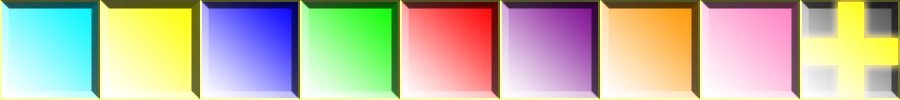
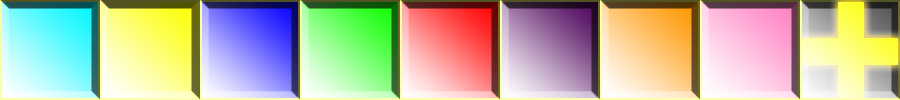
Sort and Darker Purple
Sort's back in and purple is darker to prevent issues with pink

Changed region(s): [[0.56, 0.06, 0.6844, 0.9]]

diff --git a/js/game.js b/js/game.js
@@ -182,7 +182,7 @@ window.onload = function () {
             }
         }
 
-        //sort();
+        sort();
         repopulate();
     }
 
